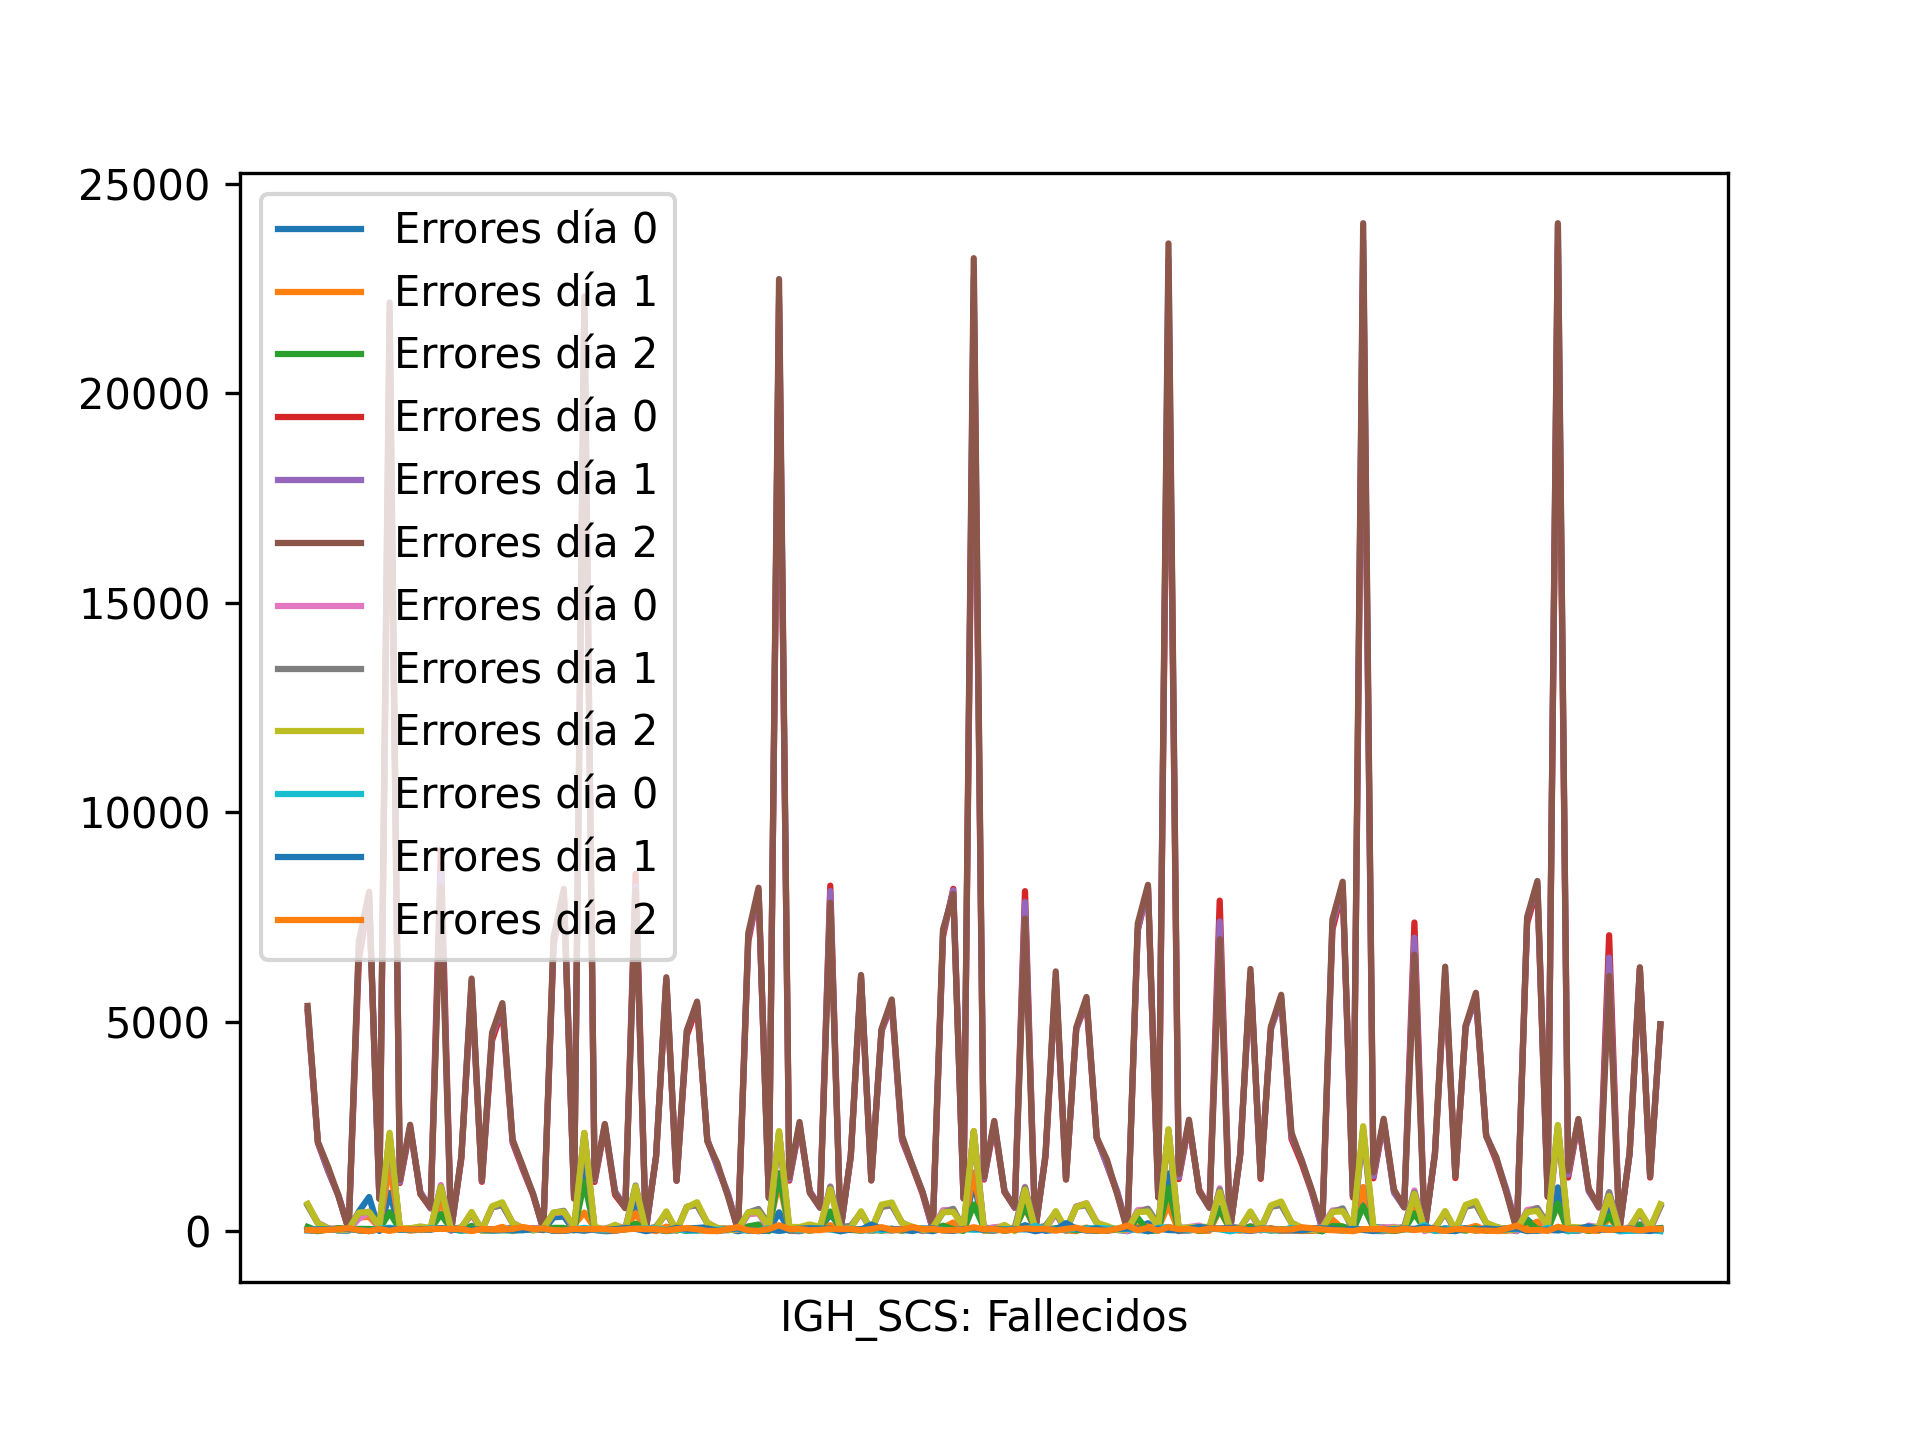
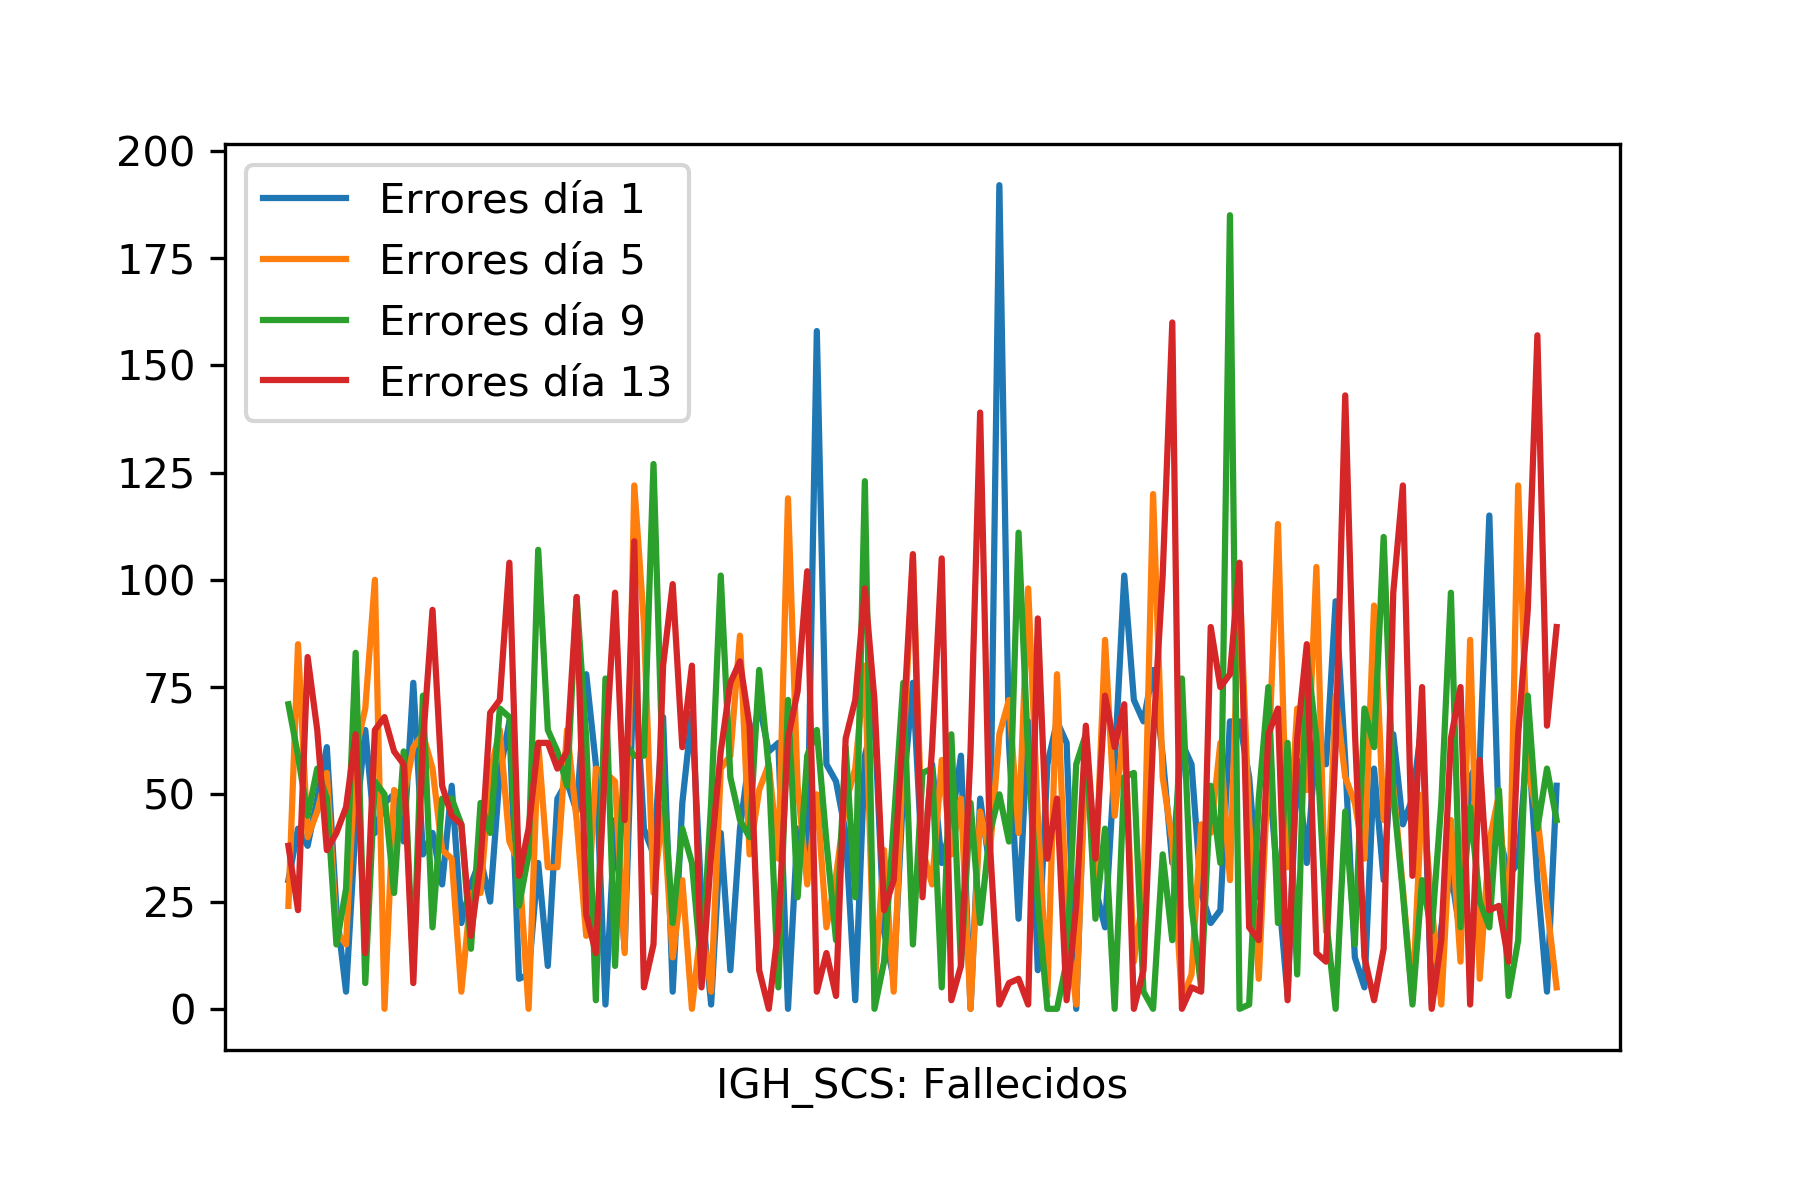
Added a few plots

Changed region(s): [[0.0311, 0.0925, 0.9022, 0.925], [0.0311, 0.555, 0.1244, 0.5858], [0.0933, 0.8325, 0.1244, 0.8633]]

diff --git a/main.py b/main.py
@@ -3,18 +3,18 @@
 import predictor
 import models
 
-import numpy as np
 import pandas as pd
 import matplotlib.pyplot as plt
 
 from os import path
 from os import listdir
+from pathlib import Path
 from datetime import datetime
 from datetime import timedelta
 
 cc_aa_count             = 19
 days_to_train           = 9
-days_to_predict         = 15
+days_to_predict         = 16
 predictors_directory    = "data/test/"
 columns_to_estimate     = [ "CASOS", "Hospitalizados", "UCI", "Fallecidos", "Recuperados" ]
 
@@ -26,29 +26,25 @@ predictors              = [ predictor.Predictor( predictors_directory + dirent +
 other_columns           = [ column for column in observations.columns if column not in columns_to_estimate ]
 figures                 = []
 
-# =============================================================================
-# ### Comentar si ya hemos calculado los errores
-# for predictor in predictors:
-#     predictor.calculate_error_by_row( observations, columns_to_estimate, cc_aa_count )
-#     predictor.store_with_error_by_row()
-# =============================================================================
+### Comentar si ya hemos calculado los errores
+for user in predictors:
+    user.calculate_error_by_row( observations, columns_to_estimate, cc_aa_count )
+    user.store_with_error_by_row( "data/errors/" )
 
-for predictor in predictors:
-    predictor.calculate_error_by_row( observations, columns_to_estimate, cc_aa_count )
-    figure = plt.Figure()
-    for variable in predictor.dfs[ 0 ].columns:
+for user in predictors:
+    Path( "images/errors/" ).mkdir( parents = True, exist_ok = True )
+    user.calculate_error_by_row( observations, columns_to_estimate, cc_aa_count )
+    for variable in user.dfs[ 0 ].columns:
         if "Error" in variable:
-            for i in range( 3 ):
-                plt.plot( predictor.dfs[ i ][ variable ], label=f"Errores día {i}" )
-            #plt.plot( predictor.dfs[ 15 ][ variable ], label=f"Errores día 15" )
-            plt.xlabel( f"{ predictor.user }: { variable.replace( '_Error', '' ) }" )
-            
+            figure = plt.Figure()
+            for i in range( 1, len( user.dfs ) + 1, 4 ):
+                plt.plot( user.dfs[ i ][ variable ], label=f"Errores día {i}" )
+            plt.xlabel( f"{ user }: { variable.replace( '_Error', '' ) }" )
             plt.gca().axes.get_xaxis().set_ticks( [] )
-            #plt.gca().axes.get_yaxis().set_ticks( [] )
             plt.legend( loc="upper left" )
-            plt.show()
-            #plt.savefig( f"images/{ predictor.user }_{ variable.replace( '_Error', '' ) }.png", dpi=300 )
+            plt.savefig( f"images/{ user }_{ variable.replace( '_Error', '' ) }.png", dpi=300 )
             figures.append( figure )
+            plt.close()
             
     
 ### Creamos el modelo con los predictores
@@ -56,11 +52,14 @@ collab_pred = models.CollaborativePredictor( predictors )
 ### Y lo ajustamos a los datos experimentales
 collab_pred.fit( observations, columns_to_estimate, days_to_train, days_to_predict, cc_aa_count )# cc_aa_count, days_to_train, days_to_predict )
 
+### Guardamos los datos en la carpeta "data/res/"
 date = datetime( 2020, 4, 15 )
 for result in collab_pred.results:
     result = result[[ "CCAA", "FECHA", "CASOS", "Hospitalizados", "UCI", "Fallecidos", "Recuperados" ]]
-    
     result.to_csv( f"data/res/RPR_{ date.strftime( '%d_%m_%Y' ) }.csv", index_label=False, index=False )
     date += timedelta( days = 1 )
-
-
+    
+### Creamos un predictor con los csv que acabamos de generar
+generated_predictor = predictor.Predictor( "data/res/" )
+generated_predictor.calculate_error_by_row( observations, columns_to_estimate, cc_aa_count )
+generated_predictor.store_with_error_by_row( "data/errors/" )

diff --git a/predictor.py b/predictor.py
@@ -5,12 +5,11 @@ import pandas as pd
 
 from os import path
 from os import listdir
-from io import StringIO
 from pathlib import Path
 
 class Predictor:
     def __init__( self, dir_path :str ):
-        self.user       = path.basename( path.normpath( dir_path ) ) #path.splitdrive( dir_path )[ -1 ]
+        self.user       = path.basename( path.normpath( dir_path ) )
         self.dir_path   = dir_path
         self.dfs        = []
         self.csv_names  = []
@@ -54,17 +53,11 @@ class Predictor:
             for df in self.dfs:
                 result[ column ].append( np.array( df[ f"{column}_Error" ] ) )
         return result 
-        '''
-        return { column : [ np.array( df[ "{}_Error".format( column ) ].tolist() )
-                for df in self.dfs ]
-                for column in columns }
-        '''
-    def store_with_error_by_row( self ):
-        dest_dir = self.dir_path.replace( "test", "errors" )
-        Path( dest_dir ).mkdir( parents = True, exist_ok = True )
-        
+
+    def store_with_error_by_row( self, directory ):
+        Path( directory + self.user ).mkdir( parents=True, exist_ok=True )
         for i in range( len( self.dfs ) ):
-            file_name = dest_dir + self.csv_names[ i ]
+            file_name = directory + self.user + "/" + self.csv_names[ i ]
             self.dfs[ i ].to_csv( file_name, index = False )
 
     def __str__( self ):
